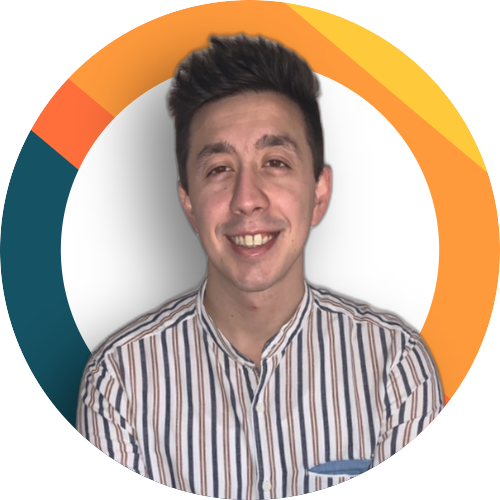
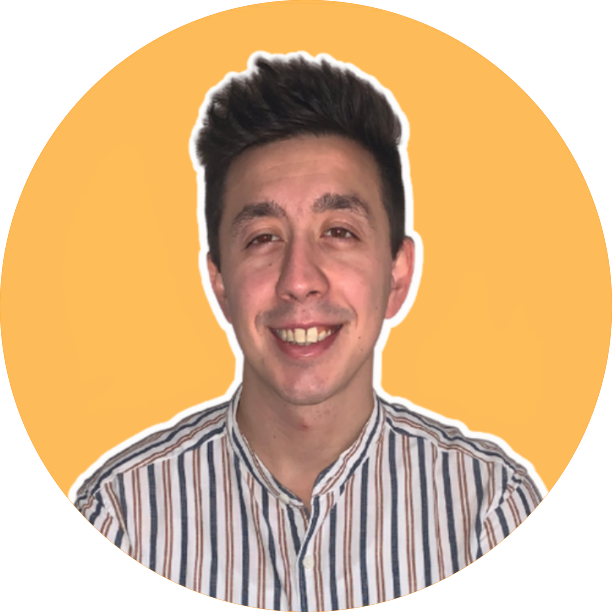
edit profil pic

diff --git a/index.html b/index.html
@@ -49,7 +49,7 @@
       
 
         <div class="flex justify-center items-center pt-12">
-            <img src="ressources/profilePic.png" alt="photo de profil" class="w-56 h-56 mt-8">
+            <img src="ressources/profile-pic.png" alt="photo de profil" class="w-56 h-56 mt-8 ring-4 ring-gray-200 rounded-full">
         </div>
     
 
@@ -266,7 +266,7 @@
 
  <!-- Section Blog -->
 
- <section id="propos" class="bg-gray-800 from-yellow-900 to-yellow-500 py-8 px-4 sm:py-16 sm:px-6 lg:px-8 lg:py-20 text-center">
+ <!-- <section id="propos" class="bg-gray-800 from-yellow-900 to-yellow-500 py-8 px-4 sm:py-16 sm:px-6 lg:px-8 lg:py-20 text-center">
 
   <h2 class="text-4xl font-extrabold text-white">Blog en cour de développement</h2>
 
@@ -279,7 +279,7 @@
 
 
 
-</section>
+</section> -->
 
 <!-------------- Section Contact ----------->
 
@@ -303,7 +303,7 @@
         <input 
         type="text"
         id="nom"
-        class="block w-full ring-1 ring-gray-200 shadow-sm py-3 px-4 placeholder-gray-500 border-gray-300 rounded-md"
+        class="block w-full ring-1 ring-gray-500 shadow-sm py-3 px-4 placeholder-gray-500 border-gray-300 rounded-md"
         name="nom"
         placeholder="Votre nom"
         required
@@ -315,7 +315,7 @@
         <input 
         type="text"
         id="prenom"
-        class="block w-full ring-1 ring-gray-200 shadow-sm py-3 px-4 placeholder-gray-500 border-gray-300 rounded-md"
+        class="block w-full ring-1 ring-gray-500 shadow-sm py-3 px-4 placeholder-gray-500 border-gray-300 rounded-md"
         name="prenom"
         placeholder="Votre prénom"
         required
@@ -327,7 +327,7 @@
         <input 
         type="text"
         id="email"
-        class="block w-full ring-1 ring-gray-200 shadow-sm py-3 px-4 placeholder-gray-500 border-gray-300 rounded-md"
+        class="block w-full ring-1 ring-gray-500 shadow-sm py-3 px-4 placeholder-gray-500 border-gray-300 rounded-md"
         name="email"
         placeholder="Votre email"
         required
@@ -338,7 +338,7 @@
         <label for="message" class="text-gray-500 mb-2 block">Votre message</label>
         <textarea 
         id="message"
-        class="block w-full ring-1 ring-gray-200 shadow-sm py-4 px-4 placeholder-gray-500 border-gray-300 rounded-md"
+        class="block w-full ring-1 ring-gray-500 shadow-sm py-4 px-4 placeholder-gray-500 border-gray-300 rounded-md"
         name="message"
         placeholder="Votre message"
         ></textarea>
